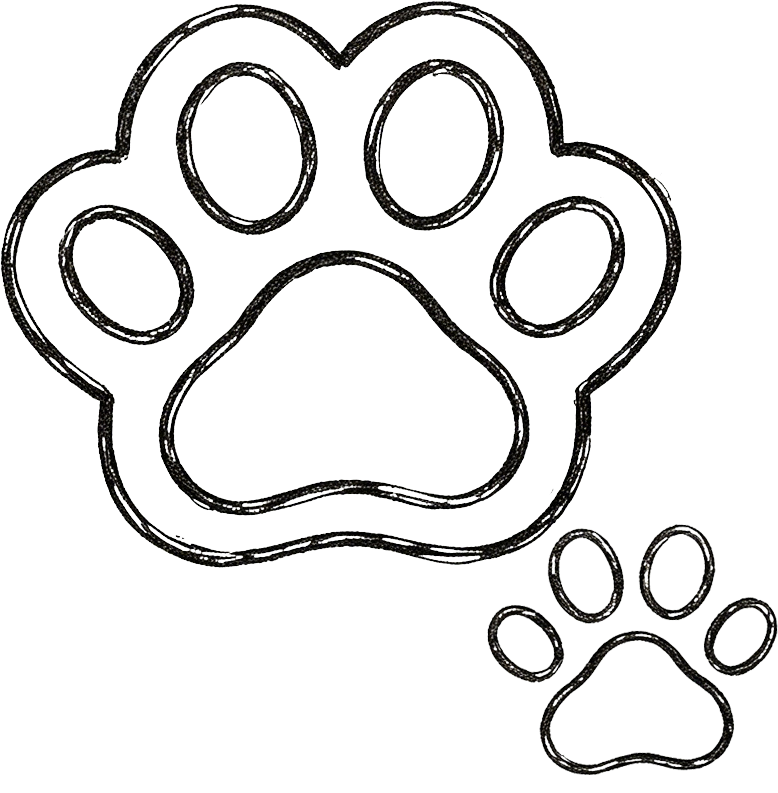
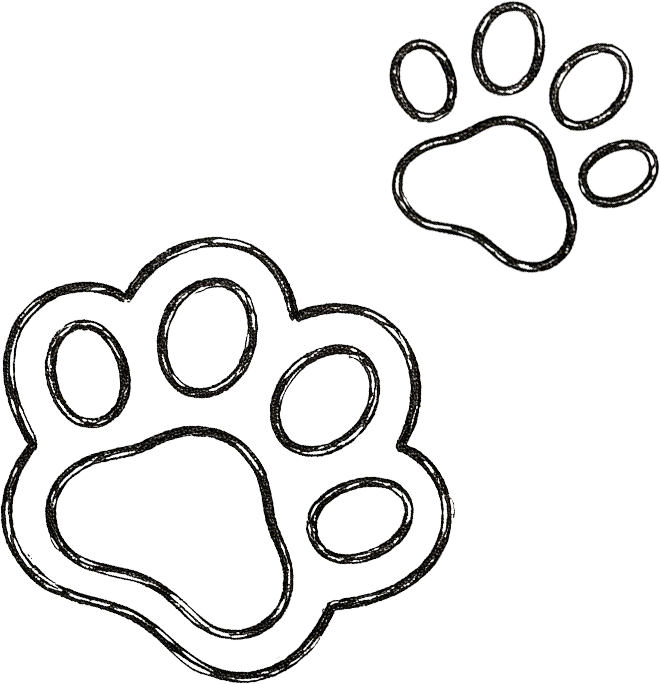
更新

Changed region(s): [[0.0, 0.0, 1.0, 1.0], [0.2121, 0.0614, 0.4242, 0.307]]

diff --git a/ai-canvas/src/features/home/HomePage.tsx b/ai-canvas/src/features/home/HomePage.tsx
@@ -372,25 +372,27 @@ export default function HomePage() {
   return (
     <div className="flex flex-1 flex-col overflow-y-auto bg-background">
       {/* Hero */}
-      <div className="hero-glow flex flex-1 flex-col items-center justify-center px-6 pt-20 pb-16">
-        <h1 className="mb-4 flex items-center gap-4 text-5xl font-bold tracking-tight">
-          <img src={catPawImg} alt="" className="h-28 w-28 object-contain dark:invert" />
-          <span className="text-shimmer">：致力于解决电商行业的所有需求</span>
+      <div className="hero-glow flex flex-[8] flex-col items-center justify-center px-6 pt-20 pb-4">
+        <h1 className="-mt-20 mb-4 flex items-end gap-3 text-5xl font-bold tracking-tight">
+          <img src={catPawImg} alt="" className="h-16 w-16 object-contain dark:invert" />
+          <span className="text-shimmer tracking-[0.15em]">致力于解决电商行业的所有需求</span>
         </h1>
-        <p className="mb-12 max-w-md text-center text-base tracking-wide text-muted-foreground/80">
+        <p className="mt-4 mb-12 max-w-md text-center text-base tracking-wide text-muted-foreground/80">
           效率，从这里起飞
         </p>
 
-        <div className="w-full max-w-3xl">
+        <div className="w-full max-w-4xl">
           <AIPromptInput />
         </div>
       </div>
 
       {/* Recent Projects + Quick Start */}
-      <div className="shrink-0 space-y-6 px-8 pt-2 pb-6">
+      <div className="shrink-0 space-y-6 px-8 pt-0 pb-6">
         <RecentProjects />
         <WorkflowGrid />
       </div>
+
+      <div className="flex-1" />
     </div>
   );
 }

diff --git a/ai-canvas/src/main.css b/ai-canvas/src/main.css
@@ -109,33 +109,33 @@
 
 .text-shimmer {
   --shimmer-fg: oklch(0.25 0 0);
-  --shimmer-hi: oklch(0.55 0 0);
-  --shimmer-peak: oklch(0.78 0 0 / 0.95);
+  --shimmer-hi: oklch(0.48 0 0);
+  --shimmer-peak: oklch(0.72 0 0 / 0.9);
   display: inline-block;
   background: linear-gradient(
-    100deg,
+    120deg,
     var(--shimmer-fg) 0%,
-    var(--shimmer-fg) 34%,
-    var(--shimmer-hi) 44%,
+    var(--shimmer-fg) 40%,
+    var(--shimmer-hi) 47%,
     var(--shimmer-peak) 50%,
-    var(--shimmer-hi) 56%,
-    var(--shimmer-fg) 66%,
+    var(--shimmer-hi) 53%,
+    var(--shimmer-fg) 60%,
     var(--shimmer-fg) 100%
   );
-  background-size: 300% 100%;
+  background-size: 250% 100%;
   -webkit-background-clip: text;
   -webkit-text-fill-color: transparent;
   background-clip: text;
-  animation: text-shimmer-sweep 8s cubic-bezier(0.25, 0.1, 0.25, 1) infinite;
+  animation: text-shimmer-sweep 6s linear infinite;
 }
 .dark .text-shimmer {
   --shimmer-fg: oklch(0.75 0 0);
-  --shimmer-hi: oklch(0.90 0 0);
-  --shimmer-peak: oklch(0.98 0 0 / 0.95);
+  --shimmer-hi: oklch(0.88 0 0);
+  --shimmer-peak: oklch(0.97 0 0 / 0.9);
 }
 @keyframes text-shimmer-sweep {
-  0%, 12%  { background-position: 110% 50%; }
-  88%, 100% { background-position: -110% 50%; }
+  0%   { background-position: 120% 50%; }
+  100% { background-position: -120% 50%; }
 }
 
 .hero-glow {

diff --git a/ai-canvas/src/features/home/AIPromptInput.tsx b/ai-canvas/src/features/home/AIPromptInput.tsx
@@ -253,7 +253,7 @@ export default function AIPromptInput() {
   };
 
   return (
-    <div className="relative z-10 mx-auto w-full max-w-3xl">
+    <div className="relative z-10 mx-auto w-full max-w-4xl">
       <div
         className={cn(
           "rounded-2xl border bg-card/60 shadow-lg shadow-black/5 backdrop-blur-xl transition-all focus-within:shadow-xl focus-within:shadow-primary/10",
@@ -286,7 +286,7 @@ export default function AIPromptInput() {
           placeholder={config.placeholder}
           rows={3}
           className="w-full resize-none rounded-t-2xl bg-transparent px-5 pb-2 pt-5 text-base text-foreground placeholder:text-muted-foreground/60 focus:outline-none"
-          style={{ minHeight: "120px", maxHeight: "240px" }}
+          style={{ minHeight: "180px", maxHeight: "320px" }}
         />
 
         {/* Image previews */}

diff --git a/ai-canvas/src/features/overlays/NewProjectDialog.tsx b/ai-canvas/src/features/overlays/NewProjectDialog.tsx
@@ -402,7 +402,7 @@ export function NewProjectDialog({
           <h3 className="mb-3 text-sm font-semibold text-foreground">
             快速开始
           </h3>
-          <div className="grid grid-cols-3 gap-2.5">
+          <div className="grid grid-cols-5 gap-2">
             {TEMPLATE_OPTIONS.map((tpl) => {
               const Icon = tpl.icon;
               const isBlank = tpl.id === "blank";
